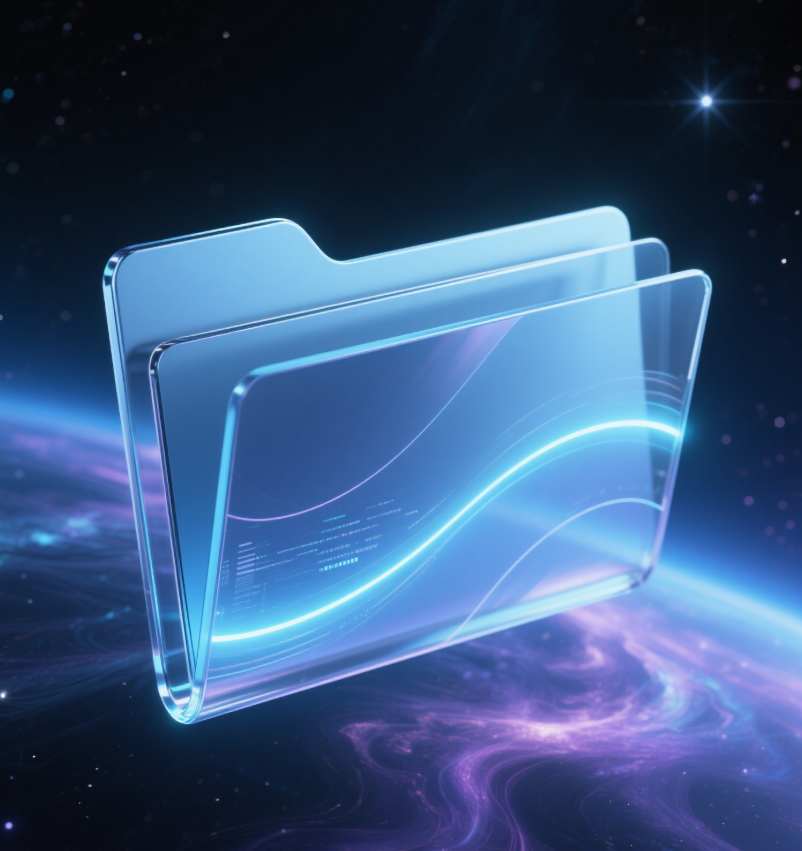
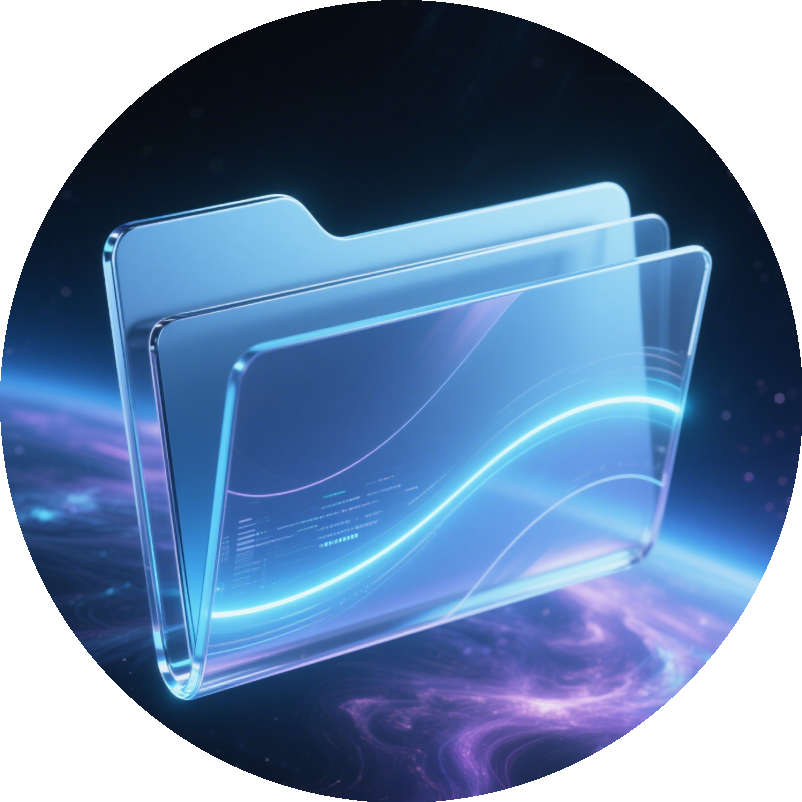
update

diff --git a/README_en.md b/README_en.md
@@ -1,8 +1,8 @@
-
-<img src="image3.png" alt="File Default Master" width="48" height="48" style="vertical-align:middle;margin-right:12px;border-radius:50%!important;object-fit:cover;display:block;">
+<p align="left">
+<img src="image3.png" alt="File Default Master" width="64" height="48" style="vertical-align:middle;margin-right:12px;border-radius:50%;object-fit:cover;">
 <span style="font-size:2em;vertical-align:middle;"><b>
 File Default Master</b></span>
-
+</p>
 
 <p align="right">
   <a href="README_en.md" style="font-size:18px;text-decoration:none;">English</a> | <a href="README.md" style="font-size:18px;text-decoration:none;">中文</a>

diff --git a/README.md b/README.md
@@ -1,6 +1,7 @@
-<img src="image3.png" alt="File Default Master" width="64" height="48" style="vertical-align:middle;margin-right:12px;border-radius:50% / 35%;object-fit:cover;display:block;">
+<p align="left">
+<img src="image3.png" alt="File Default Master" width="64" height="48" style="vertical-align:middle;margin-right:12px;border-radius:50%;object-fit:cover;">
 <span style="font-size:2em;vertical-align:middle;"><b>文件默认大师</b></span>
-
+</p>
 
 
 <p align="right">
